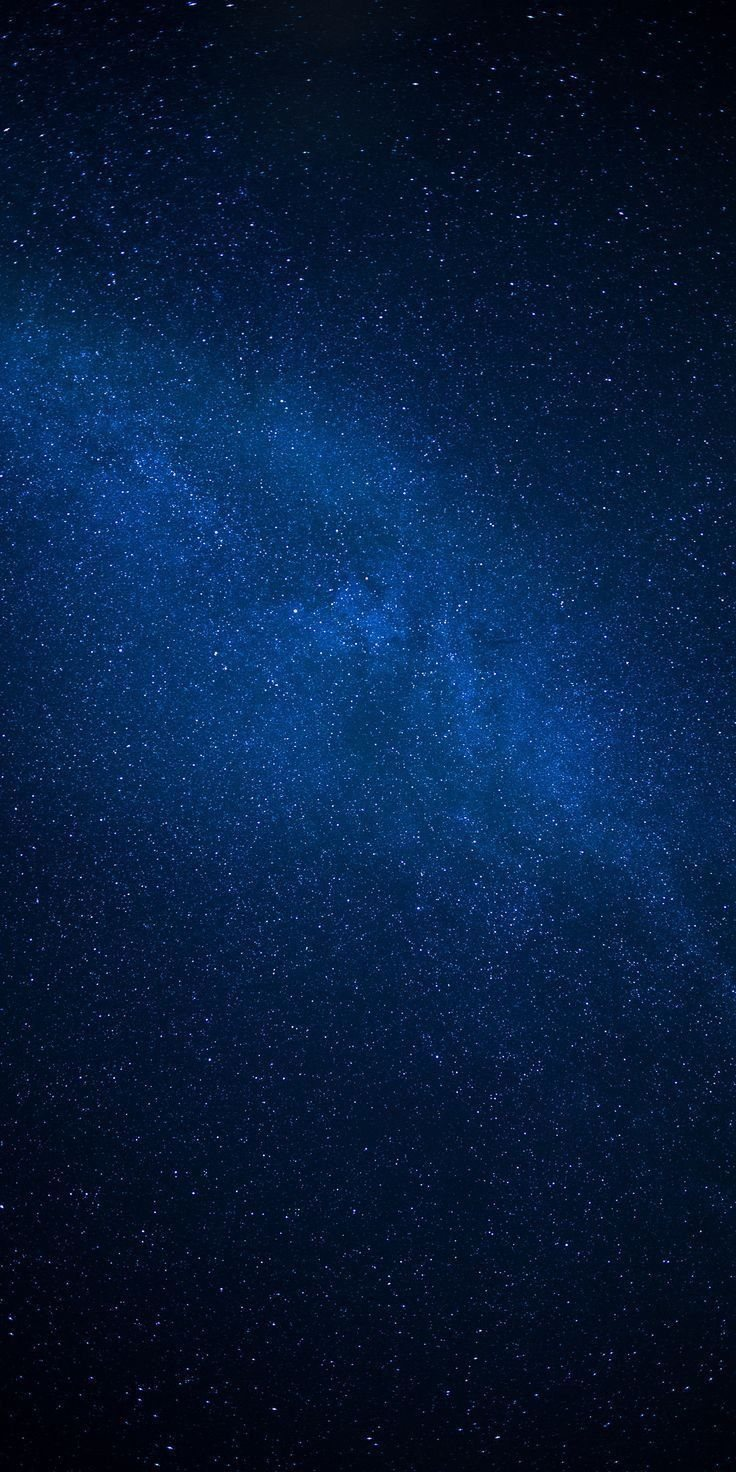
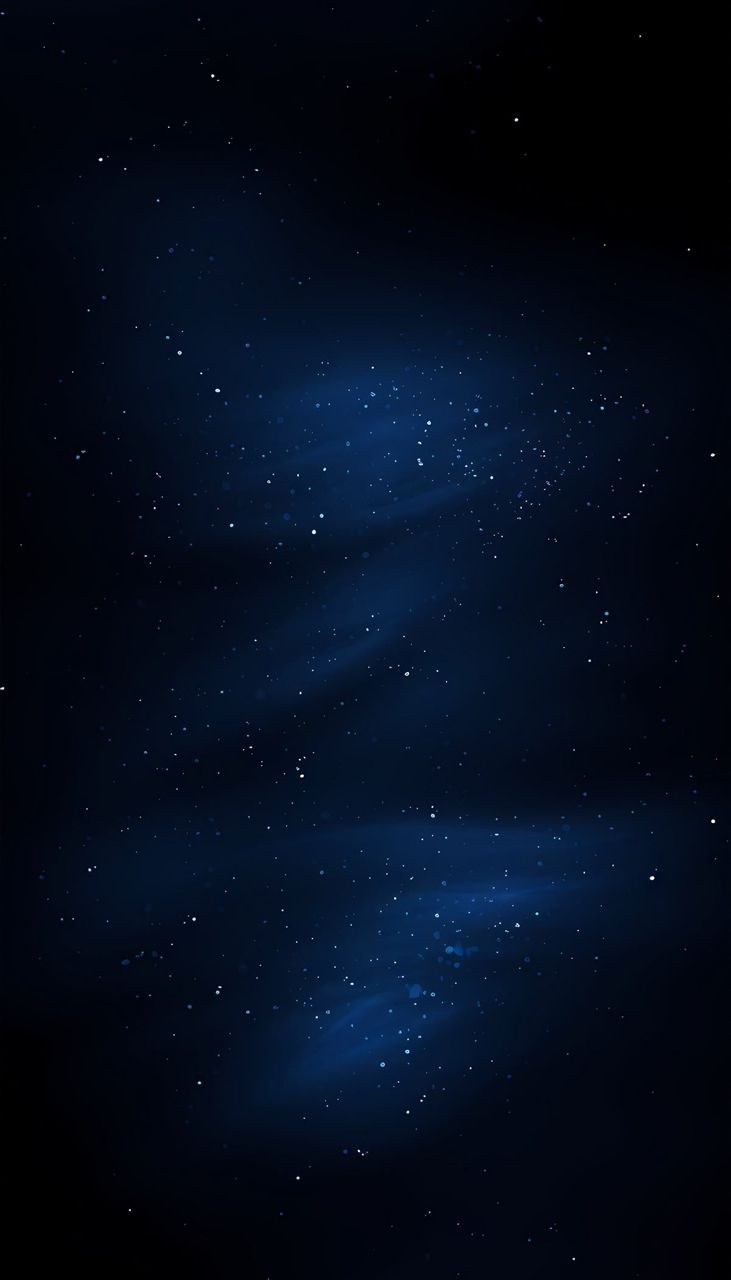
Latar diganti gambar langit baru, tampil utuh tanpa terpotong
Claude-Session: https://claude.ai/code/session_01P7MTiQC3NYmdtVpG2gvUP1

diff --git a/style.css b/style.css
@@ -29,7 +29,7 @@
 html{-webkit-text-size-adjust:100%}
 body{margin:0;min-height:100vh;font-family:var(--font);font-size:14.5px;line-height:1.5;color:var(--on-dark);
   /* latar: langit malam berbintang */
-  background:#06141b url("bg-bintang.jpg") no-repeat center/cover;background-attachment:fixed}
+  background:#010307 url("bg-bintang.jpg") no-repeat center/contain;background-attachment:fixed}
 [hidden]{display:none!important}
 img{max-width:100%;display:block}
 button,input,select,textarea{font:inherit;color:inherit}
